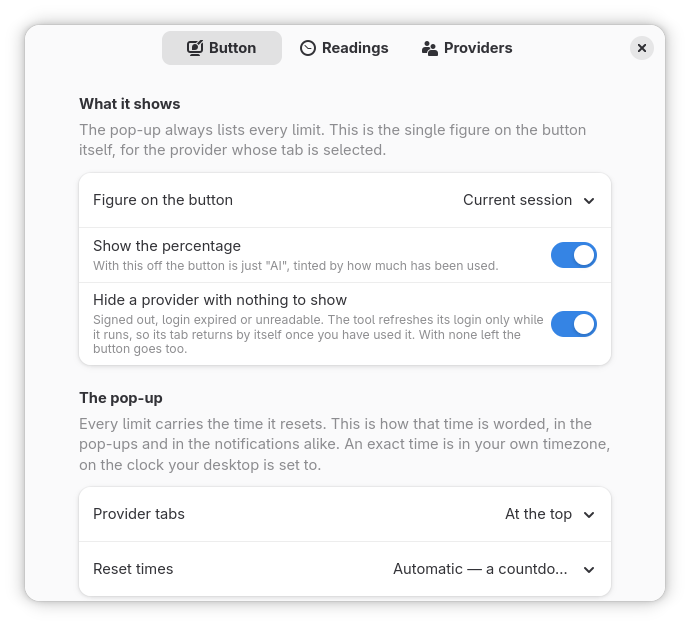
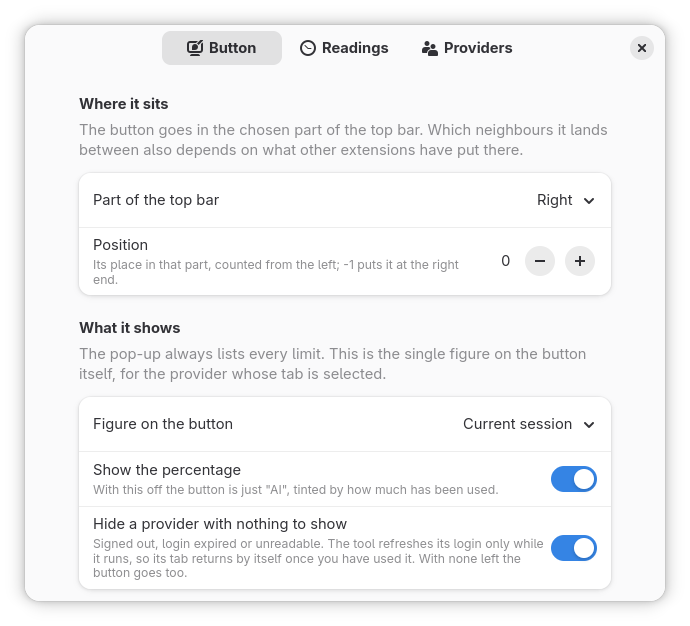
Release 0.2 (#162)

diff --git a/README.md b/README.md
@@ -102,16 +102,15 @@ To update, `git pull && make install`, then log out and back in. To remove it,
 
 | Button | Readings | Providers |
 | --- | --- | --- |
-| ![The Button page: the figure the button shows, two switches, where the tabs sit and how reset times are worded.](docs/screenshots/preferences-button.png) | ![The Readings page: 300 seconds between readings, and Notify at 0, which turns notifications off.](docs/screenshots/preferences-readings.png) | ![The Providers page: Claude Code found at /usr/bin/claude, the Codex CLI found at /usr/bin/codex, and the Antigravity CLI (agy) found at /usr/bin/agy, each with a switch.](docs/screenshots/preferences-providers.png) |
+| ![The Button page: where the button sits in the top bar, the figure it shows and two switches, then where the tabs sit and how reset times are worded.](docs/screenshots/preferences-button.png) | ![The Readings page: 300 seconds between readings, then the warnings: amber from 80, red from 95, and notify from 0, which turns notifications off.](docs/screenshots/preferences-readings.png) | ![The Providers page: Claude, Codex and Antigravity, each found at its command's path in /usr/bin and each with a switch.](docs/screenshots/preferences-providers.png) |
 
-- **Button**: the figure the button shows, whether the percentage is shown beside
-  "AI", whether the tabs sit at the top or the bottom of the pop-up, how reset times are
-  worded, which end of the top bar the button sits in and where, and the figures at which
-  it turns amber and red.
-- **Readings**: seconds between readings (60 to 3600), and the figure at which a limit
-  notifies you (0 for never).
-- **Providers**: each provider's switch, where its tool was found, and what its tab
-  lists.
+- **Button**: which part of the top bar the button sits in and where, the figure it
+  shows, whether the percentage is shown beside "AI", whether the tabs sit at the top or
+  the bottom of the pop-up, and how reset times are worded.
+- **Readings**: seconds between readings (60 to 3600), and the warnings: the share of a
+  limit used at which it turns amber, then red, and at which it notifies you (0 for never).
+- **Providers**: each installed provider's switch, where its tool was found, and what its
+  tab lists; a provider whose tool is not installed is listed without a switch.
 
 ## Troubleshooting
 
@@ -141,8 +140,9 @@ stored logins and goes online, just as the extension does.
   only while they run, so use the tool (`claude`, `agy` or `codex`) and it returns. With the
   option off the tab stays, and the button is amber when no provider has a figure.
 - **The button is amber with no figure**: a stored login has expired or is missing.
-  Run the tool once (`claude`, `agy` or `codex`), signing in if it asks; a new Claude or
-  Codex login is picked up within seconds, and any provider's on the next reading or when you open the pop-up.
+  Run the tool once (`claude`, `agy` or `codex`), signing in if it asks; the new login is
+  picked up within seconds. Antigravity's lasts an hour from when `agy` last started, and
+  its tab says when it expired.
 - **No button at all after installing**: log out and back in, then
   `gnome-extensions enable ai-usage@jackicus`.
 

diff --git a/CLAUDE.md b/CLAUDE.md
@@ -2,7 +2,7 @@
 
 Shared rules for every extension come from the GNOME-EXTENSIONS kit: `../CLAUDE.md` and `../.claude/rules/` (loaded with this file), and the `gnome-ext:*` skills. `.claude/kit.sh` pulls the kit at session start, or, with no kit beside this repository, fetches it and prints its rules into the session.
 
-A GNOME Shell extension (UUID `ai-usage@jackicus`, `version-name` 0.1, shell 50)
+A GNOME Shell extension (UUID `ai-usage@jackicus`, `version-name` 0.2, shell 50)
 that puts one button in the top bar, with a tab per AI subscription in its pop-up,
 showing how much of each rate limit is used and when it resets. Claude and Antigravity are verified
 against live accounts; Codex against a live free-plan account (codex-cli
